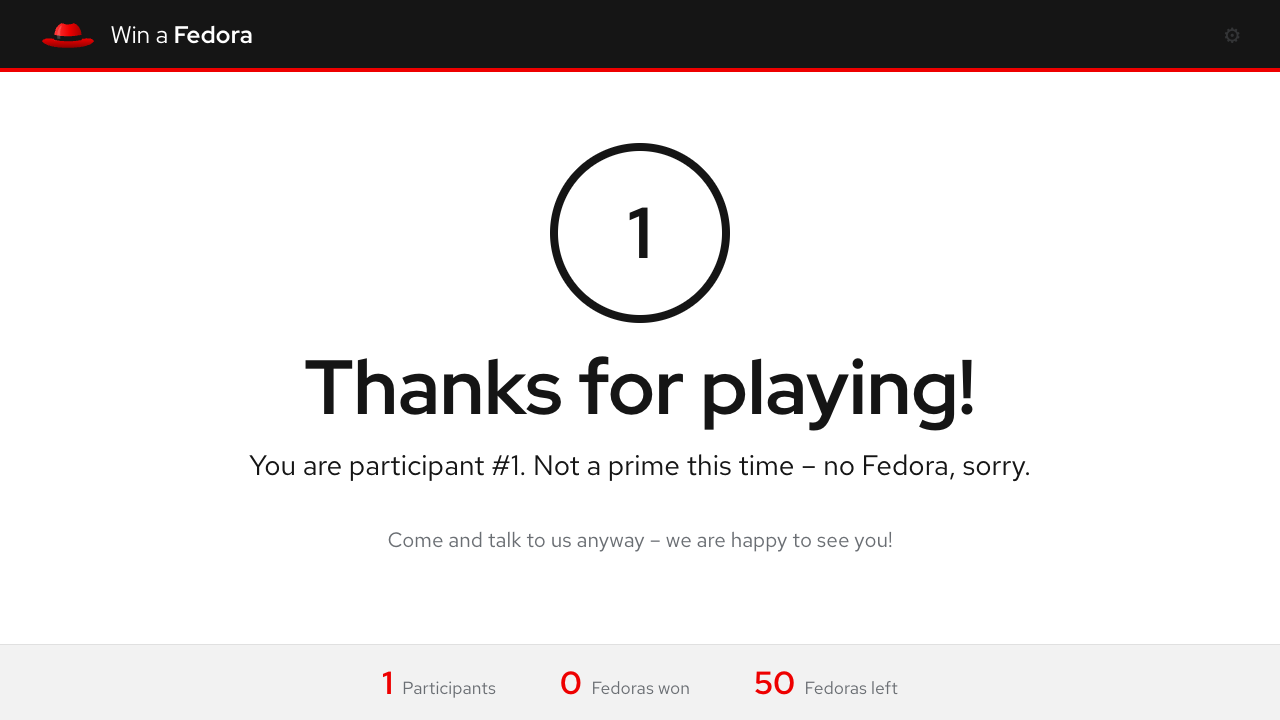
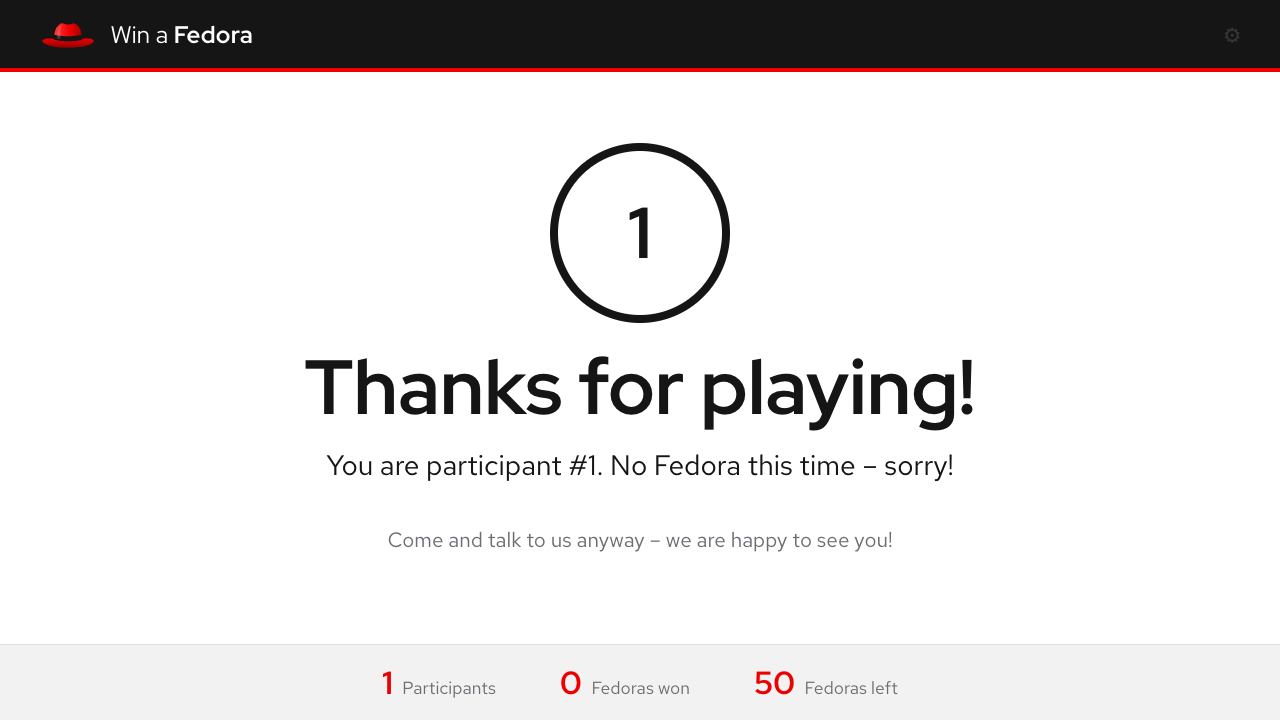
Do not reveal the winner rule on the visitor screens
Result, idle and sold-out texts (English and German) no longer mention
prime numbers or how winners are chosen; they only say whether someone
won. The rule-specific text variants are gone, the idle subline is the
same for every rule. The rule itself is still shown on the settings page
for the booth staff. README and screenshots updated.

Changed region(s): [[0.1875, 0.6111, 0.8125, 0.6722]]

diff --git a/src/app/core/i18n.service.ts b/src/app/core/i18n.service.ts
@@ -8,19 +8,15 @@ const TEXTS = {
     readyHint: 'Just talk to us – we will scan your badge',
     processing: 'One moment …',
     winTitle: 'Congratulations!',
-    winSubtitle: 'You are participant #{n} – a prime number! Pick up your Fedora at the booth.',
+    winSubtitle: 'You are participant #{n} and you won! Pick up your Fedora at the booth.',
     loseTitle: 'Thanks for playing!',
-    loseSubtitle: 'You are participant #{n}. Not a prime this time – no Fedora, sorry.',
-    loseSubtitleCode: 'Your code is not a prime number – no Fedora this time.',
-    winSubtitleCode: 'Your code is a prime number! Pick up your Fedora at the booth.',
-    winSubtitleRandom: 'You are participant #{n} and you won! Pick up your Fedora at the booth.',
-    loseSubtitleRandom: 'You are participant #{n}. Luck was not on your side this time.',
+    loseSubtitle: 'You are participant #{n}. No Fedora this time – sorry!',
     loseTeaser: 'Come and talk to us anyway – we are happy to see you!',
     duplicateTitle: 'Already in!',
     duplicateSubtitle: 'This badge has already been registered as participant #{n}.',
     duplicateHintWinner: 'You have already won a Fedora.',
     duplicateHintLoser: 'Every badge can take part only once.',
-    soldOutTitle: 'A prime – but …',
+    soldOutTitle: 'You won – but …',
     soldOutSubtitle: '… all Fedoras are gone already. Thanks for playing!',
     errorTitle: 'Something went wrong',
     errorSubtitle:
@@ -36,9 +32,7 @@ const TEXTS = {
       'While stocks last!',
     ],
     idleCta: 'Talk to us – we scan your badge',
-    idleRuleCounter: 'If your participant number is prime, the Fedora is yours.',
-    idleRuleCode: 'If your badge number is prime, the Fedora is yours.',
-    idleRuleRandom: 'With a bit of luck one of our red Fedoras is yours.',
+    idleSubline: 'With a bit of luck one of our red Fedoras is yours.',
     cameraTitle: 'Scan badge',
     cameraHint: 'Hold the QR or barcode of the badge inside the frame',
     cameraStarting: 'Starting camera …',
@@ -57,21 +51,15 @@ const TEXTS = {
     readyHint: 'Sprich uns einfach an – wir scannen deinen Ausweis',
     processing: 'Einen Moment …',
     winTitle: 'Glückwunsch!',
-    winSubtitle: 'Du bist Teilnehmer Nr. {n} – eine Primzahl! Hol dir deine Fedora am Stand ab.',
+    winSubtitle: 'Du bist Teilnehmer Nr. {n} und hast gewonnen! Hol dir deine Fedora am Stand ab.',
     loseTitle: 'Danke fürs Mitmachen!',
-    loseSubtitle: 'Du bist Teilnehmer Nr. {n}. Leider keine Primzahl – diesmal keine Fedora.',
-    loseSubtitleCode: 'Dein Code ist leider keine Primzahl – diesmal keine Fedora.',
-    winSubtitleCode: 'Dein Code ist eine Primzahl! Hol dir deine Fedora am Stand ab.',
-    winSubtitleRandom:
-      'Du bist Teilnehmer Nr. {n} und hast gewonnen! Hol dir deine Fedora am Stand ab.',
-    loseSubtitleRandom:
-      'Du bist Teilnehmer Nr. {n}. Diesmal war das Glück leider nicht auf deiner Seite.',
+    loseSubtitle: 'Du bist Teilnehmer Nr. {n}. Diesmal leider keine Fedora.',
     loseTeaser: 'Sprich uns trotzdem an – wir freuen uns auf dich!',
     duplicateTitle: 'Schon dabei!',
     duplicateSubtitle: 'Dieser Ausweis wurde bereits als Teilnehmer Nr. {n} erfasst.',
     duplicateHintWinner: 'Du hast bereits eine Fedora gewonnen.',
     duplicateHintLoser: 'Jeder Ausweis kann nur einmal teilnehmen.',
-    soldOutTitle: 'Primzahl – aber …',
+    soldOutTitle: 'Gewonnen – aber …',
     soldOutSubtitle: '… alle Fedoras sind leider schon vergeben. Danke fürs Mitmachen!',
     errorTitle: 'Das hat nicht geklappt',
     errorSubtitle:
@@ -87,9 +75,7 @@ const TEXTS = {
       'Nur solange der Vorrat reicht!',
     ],
     idleCta: 'Sprich uns an – wir scannen deinen Ausweis',
-    idleRuleCounter: 'Ist deine Teilnehmernummer eine Primzahl, gehört die Fedora dir.',
-    idleRuleCode: 'Ist deine Ausweisnummer eine Primzahl, gehört die Fedora dir.',
-    idleRuleRandom: 'Mit etwas Glück gehört eine unserer roten Fedoras dir.',
+    idleSubline: 'Mit etwas Glück gehört eine unserer roten Fedoras dir.',
     cameraTitle: 'Ausweis scannen',
     cameraHint: 'QR- oder Barcode des Ausweises in den Rahmen halten',
     cameraStarting: 'Kamera wird gestartet …',

diff --git a/src/app/kiosk/kiosk.component.ts b/src/app/kiosk/kiosk.component.ts
@@ -63,14 +63,8 @@ export class KioskComponent implements OnInit, OnDestroy {
   protected readonly resultText = computed(() => {
     const n = this.result()?.record?.number ?? '';
     const won = this.state() === 'win';
-    switch (this.settings().winnerRule) {
-      case 'code':
-        return this.i18n.t(won ? 'winSubtitleCode' : 'loseSubtitleCode');
-      case 'random':
-        return this.i18n.t(won ? 'winSubtitleRandom' : 'loseSubtitleRandom', { n });
-      default:
-        return this.i18n.t(won ? 'winSubtitle' : 'loseSubtitle', { n });
-    }
+    // Deliberately says nothing about how winners are chosen.
+    return this.i18n.t(won ? 'winSubtitle' : 'loseSubtitle', { n });
   });
 
   private readonly subs = new Subscription();

diff --git a/src/app/kiosk/attract.component.ts b/src/app/kiosk/attract.component.ts
@@ -37,10 +37,7 @@ export class AttractComponent implements OnInit, OnDestroy {
   protected readonly subline = computed(() => {
     const custom = this.settings().idleSubline.trim();
     if (custom) return custom;
-    const rule = this.settings().winnerRule;
-    return this.i18n.t(
-      rule === 'code' ? 'idleRuleCode' : rule === 'random' ? 'idleRuleRandom' : 'idleRuleCounter',
-    );
+    return this.i18n.t('idleSubline');
   });
   protected readonly cta = computed(() => this.settings().idleCta.trim() || this.i18n.t('idleCta'));
   protected readonly floatingHats: FloatingHat[] = Array.from({ length: 14 }, () => ({

diff --git a/src/app/config/config.component.ts b/src/app/config/config.component.ts
@@ -75,6 +75,10 @@ export class ConfigComponent implements OnInit, OnDestroy {
     return this.i18n.texts().idleHeadlines.join('\n');
   }
 
+  protected get defaultSubline(): string {
+    return this.i18n.t('idleSubline');
+  }
+
   protected get defaultCta(): string {
     return this.i18n.t('idleCta');
   }

diff --git a/src/app/config/config.component.html b/src/app/config/config.component.html
@@ -198,7 +198,7 @@
               <input
                 name="idleSubline"
                 [(ngModel)]="form.idleSubline"
-                placeholder="Default: explanation of the winner rule"
+                [placeholder]="defaultSubline"
               />
             </label>
 

diff --git a/README.md b/README.md
@@ -15,7 +15,7 @@ share one counter, the settings and the results.
 | ![Start screen](docs/screenshots/kiosk-ready.png) | ![Winner](docs/screenshots/kiosk-win.png)                       |
 | **Idle animation** draws visitors to the booth    | **Live result** from another station (here: a phone)            |
 | ![Idle animation](docs/screenshots/attract.png)   | ![Result from another station](docs/screenshots/remote-win.png) |
-| **Not a prime** – no Fedora this time             | **Duplicate scan** is detected                                  |
+| **No win** this time                              | **Duplicate scan** is detected                                  |
 | ![No win](docs/screenshots/kiosk-lose.png)        | ![Duplicate](docs/screenshots/kiosk-duplicate.png)              |
 
 | Phone: camera scan                                                                     | Phone: winner                                                                  | Settings locked with a PIN                             |
@@ -143,6 +143,9 @@ and submit it with Enter.
 
 In backend mode the server hands out the participant numbers, so several stations share one
 counter.
+
+The visitor screens never reveal the rule: they only say whether someone won. The rule is only
+visible on the settings page.
 
 ## Backend
 
